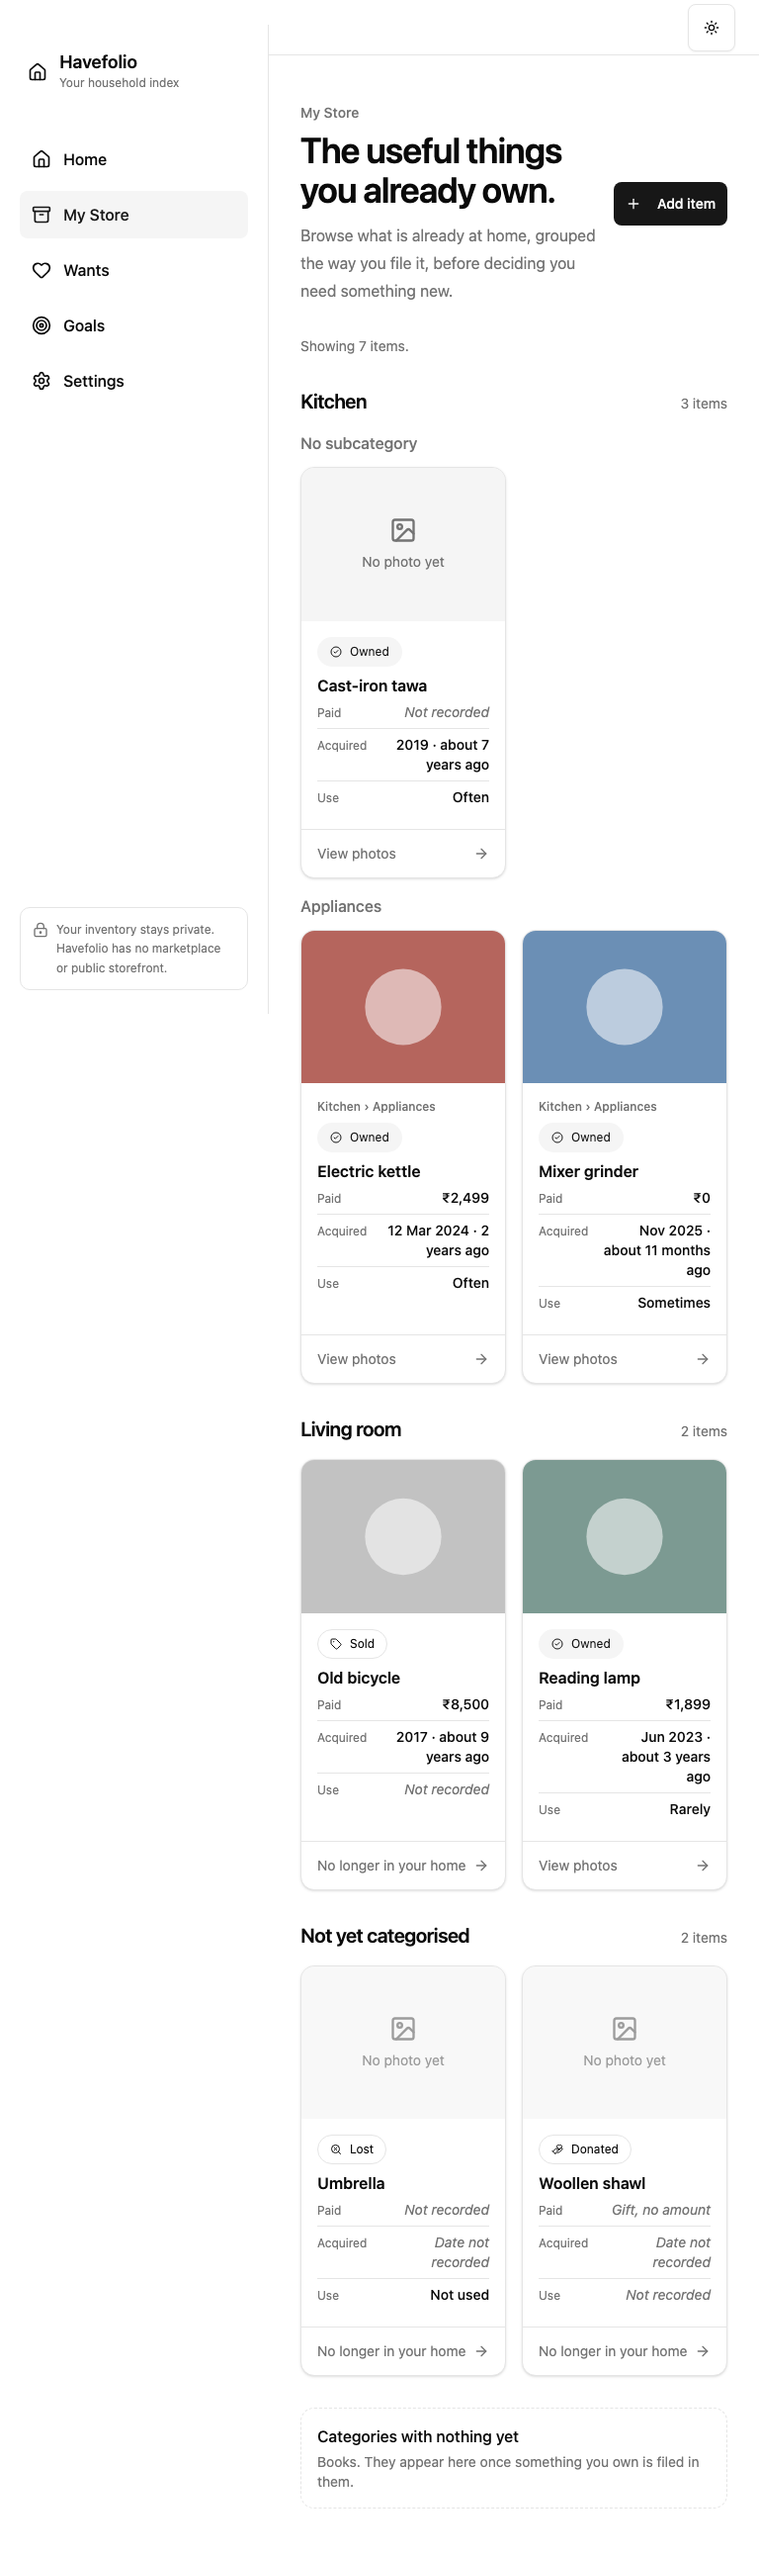
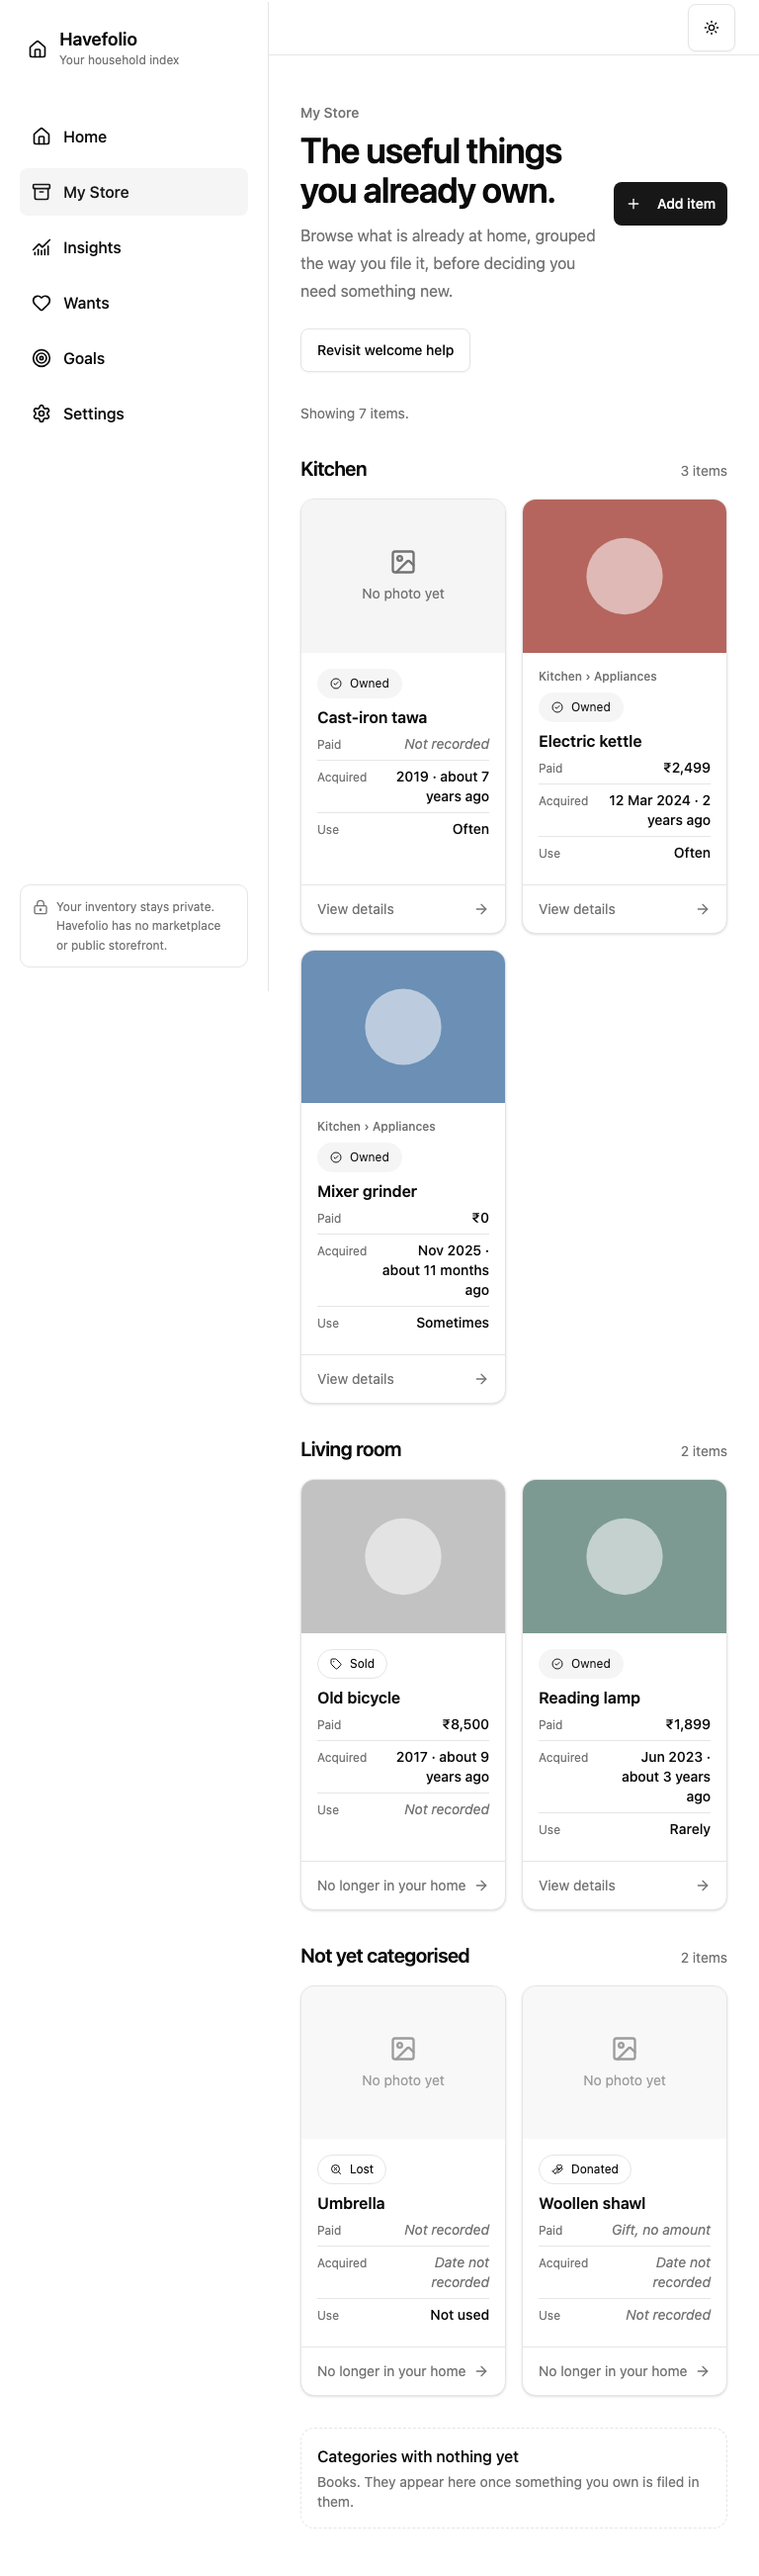
fix(PER-59): use category-level store grids
Render each My Store category as one responsive density grid instead of one
grid per subcategory, so sparse one-item subcategories fill the columns
chosen by Compact, Comfortable and Large. Each card keeps its subcategory as
visible context and exposes it first in the link's accessible description.

Add a component regression fixture with distinct one-item subcategories and a
browser journey across 360/768/1280/1512/1920px, all densities, refresh
persistence, keyboard order, overflow and synthetic light/dark screenshots.

diff --git a/apps/web/e2e/my-store.spec.ts b/apps/web/e2e/my-store.spec.ts
@@ -592,3 +592,128 @@ for (const density of ['compact', 'large'] as const) {
     expect(await card.boundingBox()).toEqual(before);
   });
 }
+
+// PER-59: synthetic category whose every item sits in its own one-item subcategory.
+const sparseCategory = id(940);
+const sparseSubs = ['Audio', 'Cameras', 'Chargers', 'Phones', 'Tablets', 'Wearables'].map(
+  (name, n) => ({
+    id: id(950 + n),
+    categoryId: sparseCategory,
+    name,
+    position: n,
+    isDemo: false,
+    retiredAt: null,
+    itemCount: 1,
+  }),
+);
+const sparseItems = sparseSubs.map((sub, n) =>
+  base(60 + n, {
+    name: `Sample device ${n + 1}`,
+    categoryId: sparseCategory,
+    subcategoryId: sub.id,
+    cover: cover(60 + n),
+  }),
+);
+const sparseTaxonomy = {
+  ...taxonomy,
+  categories: [
+    {
+      id: sparseCategory,
+      name: 'Electronics',
+      position: 0,
+      isDemo: false,
+      retiredAt: null,
+      itemCount: sparseItems.length,
+    },
+  ],
+  subcategories: sparseSubs,
+};
+const sparseShot = (name: string): string => `../../docs/screenshots/per-59-${name}.png`;
+
+test('PER-59 sparse subcategories share one category grid at every width and density', async ({
+  page,
+}, testInfo) => {
+  test.skip(testInfo.project.name !== 'desktop', 'One browser covers all responsive widths.');
+  const failures: string[] = [];
+  page.on('pageerror', (error) => failures.push(error.message));
+  page.on('console', (message) => {
+    if (message.type() === 'error') failures.push(message.text());
+  });
+  let inventoryRequests = 0;
+  page.on('request', (request) => {
+    if (/\/api\/v1\/items\?/.test(request.url())) inventoryRequests++;
+  });
+  await mock(page, sparseItems);
+  await page.route('**/api/v1/taxonomy**', (route) => route.fulfill({ json: sparseTaxonomy }));
+  await page.goto('/store');
+  const section = page.locator('section[aria-labelledby]', {
+    has: page.getByRole('heading', { level: 2, name: 'Electronics' }),
+  });
+  await expect(section.getByRole('link')).toHaveCount(sparseItems.length);
+  await expect(section.locator('.store-grid')).toHaveCount(1);
+  await expect(section.getByRole('heading', { level: 3 })).toHaveCount(0);
+  for (const [n, sub] of sparseSubs.entries()) {
+    const link = section.getByRole('link', { name: new RegExp(`^Sample device ${n + 1} Owned`) });
+    await expect(link).toContainText(`Electronics › ${sub.name}`);
+    await expect(link).toHaveAccessibleDescription(new RegExp(`^Electronics › ${sub.name} Paid`));
+  }
+  const initialRequests = inventoryRequests;
+  // Cards on the first row share its top edge; the row holds as many cards as the grid has columns.
+  const firstRow = (): Promise<number> =>
+    section.getByRole('link').evaluateAll((links) => {
+      const top = links[0]!.getBoundingClientRect().top;
+      return links.filter((l) => Math.abs(l.getBoundingClientRect().top - top) < 1).length;
+    });
+  const expected: Record<number, [number, number, number]> = {
+    1280: [4, 3, 2],
+    1512: [4, 3, 2],
+    1920: [6, 4, 3],
+  };
+  for (const width of [1280, 1512, 1920]) {
+    await page.setViewportSize({ width, height: 1000 });
+    for (const [modeIndex, mode] of densities.entries()) {
+      await page.getByRole('radio', { name: mode, exact: true }).click();
+      await expect(page.getByRole('radio', { name: mode, exact: true })).toBeChecked();
+      expect(await columns(page)).toBe(expected[width]![modeIndex]);
+      expect(await firstRow()).toBe(expected[width]![modeIndex]);
+      await expectNoOverflow(page);
+      if (width === 1512 && mode === 'Compact') {
+        for (const theme of ['light', 'dark'] as const) {
+          await setTheme(page, theme);
+          await page
+            .locator('.my-store')
+            .evaluate((el) => window.scrollTo(0, el.getBoundingClientRect().top + scrollY - 24));
+          await page.screenshot({
+            path: sparseShot(`compact-1512-${theme}`),
+            animations: 'disabled',
+          });
+        }
+      }
+    }
+  }
+  expect(inventoryRequests).toBe(initialRequests);
+  // Keyboard order follows taxonomy order across the shared grid.
+  await page.getByRole('radio', { name: 'Large' }).focus();
+  for (let n = 1; n <= sparseItems.length; n++) {
+    await page.keyboard.press('Tab');
+    await expect(
+      section.getByRole('link', { name: new RegExp(`^Sample device ${n} Owned`) }),
+    ).toBeFocused();
+  }
+  await page.getByRole('radio', { name: 'Compact' }).click();
+  await page.reload();
+  await expect(page.getByRole('radio', { name: 'Compact' })).toBeChecked();
+  await expect(section.getByRole('link')).toHaveCount(sparseItems.length);
+  expect(await firstRow()).toBe(6);
+  for (const [width, perRow] of [
+    [360, 1],
+    [768, 2],
+  ] as const) {
+    await page.setViewportSize({ width, height: 1000 });
+    await expect(page.getByRole('radiogroup', { name: 'View density' })).toBeHidden();
+    expect(await columns(page)).toBe(perRow);
+    expect(await firstRow()).toBe(perRow);
+    await expectNoOverflow(page);
+  }
+  expect(failures).toEqual([]);
+});

diff --git a/apps/web/test/my-store.test.tsx b/apps/web/test/my-store.test.tsx
@@ -288,11 +288,11 @@ describe('My Store page', () => {
       'Not yet categorised',
       'Categories with nothing yet',
     ]);
-    expect(screen.getByRole('heading', { level: 3, name: 'Appliances' })).toBeVisible();
     const kettle = card('Kettle');
     expect(kettle).toHaveAccessibleName('Kettle Owned');
+    expect(within(kettle).getByText('Kitchen › Appliances')).toBeVisible();
     expect(kettle).toHaveAccessibleDescription(
-      /Paid ₹2,499 Acquired 12 Mar 2024 · 2 years ago Use Often/,
+      'Kitchen › Appliances Paid ₹2,499 Acquired 12 Mar 2024 · 2 years ago Use Often',
     );
     expect(kettle).toHaveAttribute('href', `/items/${uuid(1)}`);
     const image = within(kettle).getByRole('img', { name: 'Steel kettle' });
@@ -323,6 +323,82 @@ describe('My Store page', () => {
     // While more pages exist, taxonomy's owner-wide count shows the group is partial.
     expect(screen.getByText('2 of 5 shown')).toBeVisible();
     expect(screen.getByText('1 item')).toBeVisible();
+  });
+
+  it('places one-item subcategories in one category grid, keeping each card’s subcategory', async () => {
+    // PER-59 regression: one item per subcategory previously produced one single-card grid each.
+    const electronics = uuid(920);
+    const subs = ['Audio', 'Cameras', 'Phones', 'Wearables'].map((name, n) => ({
+      id: uuid(930 + n),
+      categoryId: electronics,
+      name,
+      position: n,
+      isDemo: false,
+      retiredAt: n === 3 ? '2026-01-01T00:00:00.000Z' : null,
+      itemCount: 1,
+    }));
+    const sparse: TaxonomySnapshot = {
+      ...taxonomy,
+      categories: [
+        ...taxonomy.categories,
+        {
+          id: electronics,
+          name: 'Electronics',
+          position: 3,
+          isDemo: false,
+          retiredAt: null,
+          itemCount: 5,
+        },
+      ],
+      subcategories: [...taxonomy.subcategories, ...subs],
+    };
+    // Supplied out of display order; Wearables is retired.
+    const items = [
+      item(14, { name: 'Smartwatch', categoryId: electronics, subcategoryId: subs[3]!.id }),
+      item(12, { name: 'Camera', categoryId: electronics, subcategoryId: subs[1]!.id }),
+      item(11, { name: 'Headphones', categoryId: electronics, subcategoryId: subs[0]!.id }),
+      item(15, { name: 'Charger', categoryId: electronics }),
+      item(13, { name: 'Phone', categoryId: electronics, subcategoryId: subs[2]!.id }),
+    ];
+    const fake = source([page(items)], sparse);
+    render(<MyStore source={fake} now={now} />);
+    const section = (await screen.findByRole('heading', { level: 2, name: 'Electronics' }))
+      .parentElement!.parentElement!;
+    expect(section.querySelectorAll('.store-grid')).toHaveLength(1);
+    expect(within(section).queryAllByRole('heading', { level: 3 })).toHaveLength(0);
+    const cards = within(section.querySelector('.store-grid')!).getAllByRole('link');
+    expect(cards.map((c) => c.querySelector('[id$="-name"]')?.textContent)).toEqual([
+      'Charger',
+      'Headphones',
+      'Camera',
+      'Phone',
+      'Smartwatch',
+    ]);
+    const expected: [string, string | null][] = [
+      ['Charger', null],
+      ['Headphones', 'Electronics › Audio'],
+      ['Camera', 'Electronics › Cameras'],
+      ['Phone', 'Electronics › Phones'],
+      ['Smartwatch', 'Electronics › Wearables (retired)'],
+    ];
+    for (const [name, context] of expected) {
+      const link = card(name);
+      if (context) {
+        expect(within(link).getByText(context)).toBeVisible();
+        expect(link).toHaveAccessibleDescription(
+          new RegExp(`^${context.replace(/[()]/g, '\\$&')} Paid`),
+        );
+      } else {
+        expect(link).toHaveAccessibleDescription(/^Paid Not recorded/);
+      }
+    }
+    // Density changes restyle the same grid without another inventory request.
+    expect(fake.loadPage).toHaveBeenCalledTimes(1);
+    for (const mode of storeDensities) {
+      act(() => selectDensity(mode));
+      expect(section.querySelectorAll('.store-grid')).toHaveLength(1);
+    }
+    expect(fake.loadPage).toHaveBeenCalledTimes(1);
   });
 
   it('uses fallback alt text, decorative covers and quiet failed-image text', async () => {

diff --git a/apps/web/components/my-store.tsx b/apps/web/components/my-store.tsx
@@ -364,32 +364,29 @@ function StoreContent({
                 : `${group.loaded} item${group.loaded === 1 ? '' : 's'}`}
             </span>
           </div>
-          {group.subgroups.map((subgroup) => (
-            <div key={subgroup.key} className="space-y-3">
-              {subgroup.title ? (
-                <h3 className="text-base font-medium text-muted-foreground">{subgroup.title}</h3>
-              ) : null}
-              <ul className={gridClass}>
-                {subgroup.items.map((item) => (
-                  <li key={item.id}>
-                    <StoreCard
-                      density={density}
-                      item={item}
-                      context={
-                        // Context only adds information for a genuine subcategory.
-                        subgroup.title && !subgroup.key.endsWith(':none')
-                          ? `${group.title} › ${subgroup.title}`
-                          : undefined
-                      }
-                      eager={eagerIds.has(item.id)}
-                      now={now}
-                      returnTo={returnTo}
-                    />
-                  </li>
-                ))}
-              </ul>
-            </div>
-          ))}
+          {/* One grid per category so sparse subcategories still fill the density's columns;
+              each card carries its subcategory instead of a per-subcategory heading. */}
+          <ul className={gridClass}>
+            {group.subgroups.flatMap((subgroup) =>
+              subgroup.items.map((item) => (
+                <li key={item.id}>
+                  <StoreCard
+                    density={density}
+                    item={item}
+                    context={
+                      // Context only adds information for a genuine subcategory.
+                      subgroup.title && !subgroup.key.endsWith(':none')
+                        ? `${group.title} › ${subgroup.title}`
+                        : undefined
+                    }
+                    eager={eagerIds.has(item.id)}
+                    now={now}
+                    returnTo={returnTo}
+                  />
+                </li>
+              )),
+            )}
+          </ul>
         </section>
       ))}
       {emptyCategories.length ? (
@@ -450,7 +447,7 @@ function StoreCard({
     <Link
       href={itemHref(item.id, returnTo)}
       aria-labelledby={`${id}-name ${id}-status`}
-      aria-describedby={`${id}-facts`}
+      aria-describedby={context ? `${id}-context ${id}-facts` : `${id}-facts`}
       className="block h-full rounded-xl outline-none focus-visible:ring-[3px] focus-visible:ring-ring focus-visible:ring-offset-2 focus-visible:ring-offset-background"
     >
       <OwnedItemCard

diff --git a/packages/ui/src/components/havefolio/owned-item-card.tsx b/packages/ui/src/components/havefolio/owned-item-card.tsx
@@ -7,7 +7,7 @@ import { cn } from '#lib/utils';
 export type OwnedItemFact = { label: string; value: string; muted?: boolean };
 
 export type OwnedItemCardProps = {
-  /** Prefix for element ids so a wrapping link can reference the name, status and facts. */
+  /** Prefix for element ids so a wrapping link can reference the name, status, context and facts. */
   idPrefix: string;
   name: string;
   /** Category context, for example "Kitchen › Appliances". */
@@ -56,7 +56,10 @@ export function OwnedItemCard({
       <CardHeader className="gap-2 px-4 pt-4">
         <div className="flex flex-wrap items-center justify-between gap-2">
           {context ? (
-            <span className="min-w-0 truncate text-xs font-medium text-muted-foreground">
+            <span
+              id={`${idPrefix}-context`}
+              className="min-w-0 truncate text-xs font-medium text-muted-foreground"
+            >
               {context}
             </span>
           ) : null}

diff --git a/docs/architecture/my-store-density.md b/docs/architecture/my-store-density.md
@@ -55,6 +55,15 @@ The first four covers in display order stay eager; subsequent covers stay lazy. 
 change does not request inventory or taxonomy again. Large can select the existing display
 variant; Compact can select the thumbnail when its slot and device pixel ratio allow it.
 
+## Category grids (PER-59)
+
+Each category renders one density grid holding all of its loaded cards, in taxonomy order:
+items without a subcategory first, then each subcategory, items by name then id. Subcategories
+no longer get their own heading and grid, because one-item subcategories otherwise left every
+grid with a single filled column. Each card shows `Category › Subcategory` (including a
+`(retired)` marker) and the link exposes it first in its accessible description. Synthetic
+1512px Compact screenshots are `docs/screenshots/per-59-compact-1512-*.png`.
+
 ## Boundaries and verification
 
 No API, database, migration, OpenAPI, upload, telemetry, service or environment change.
